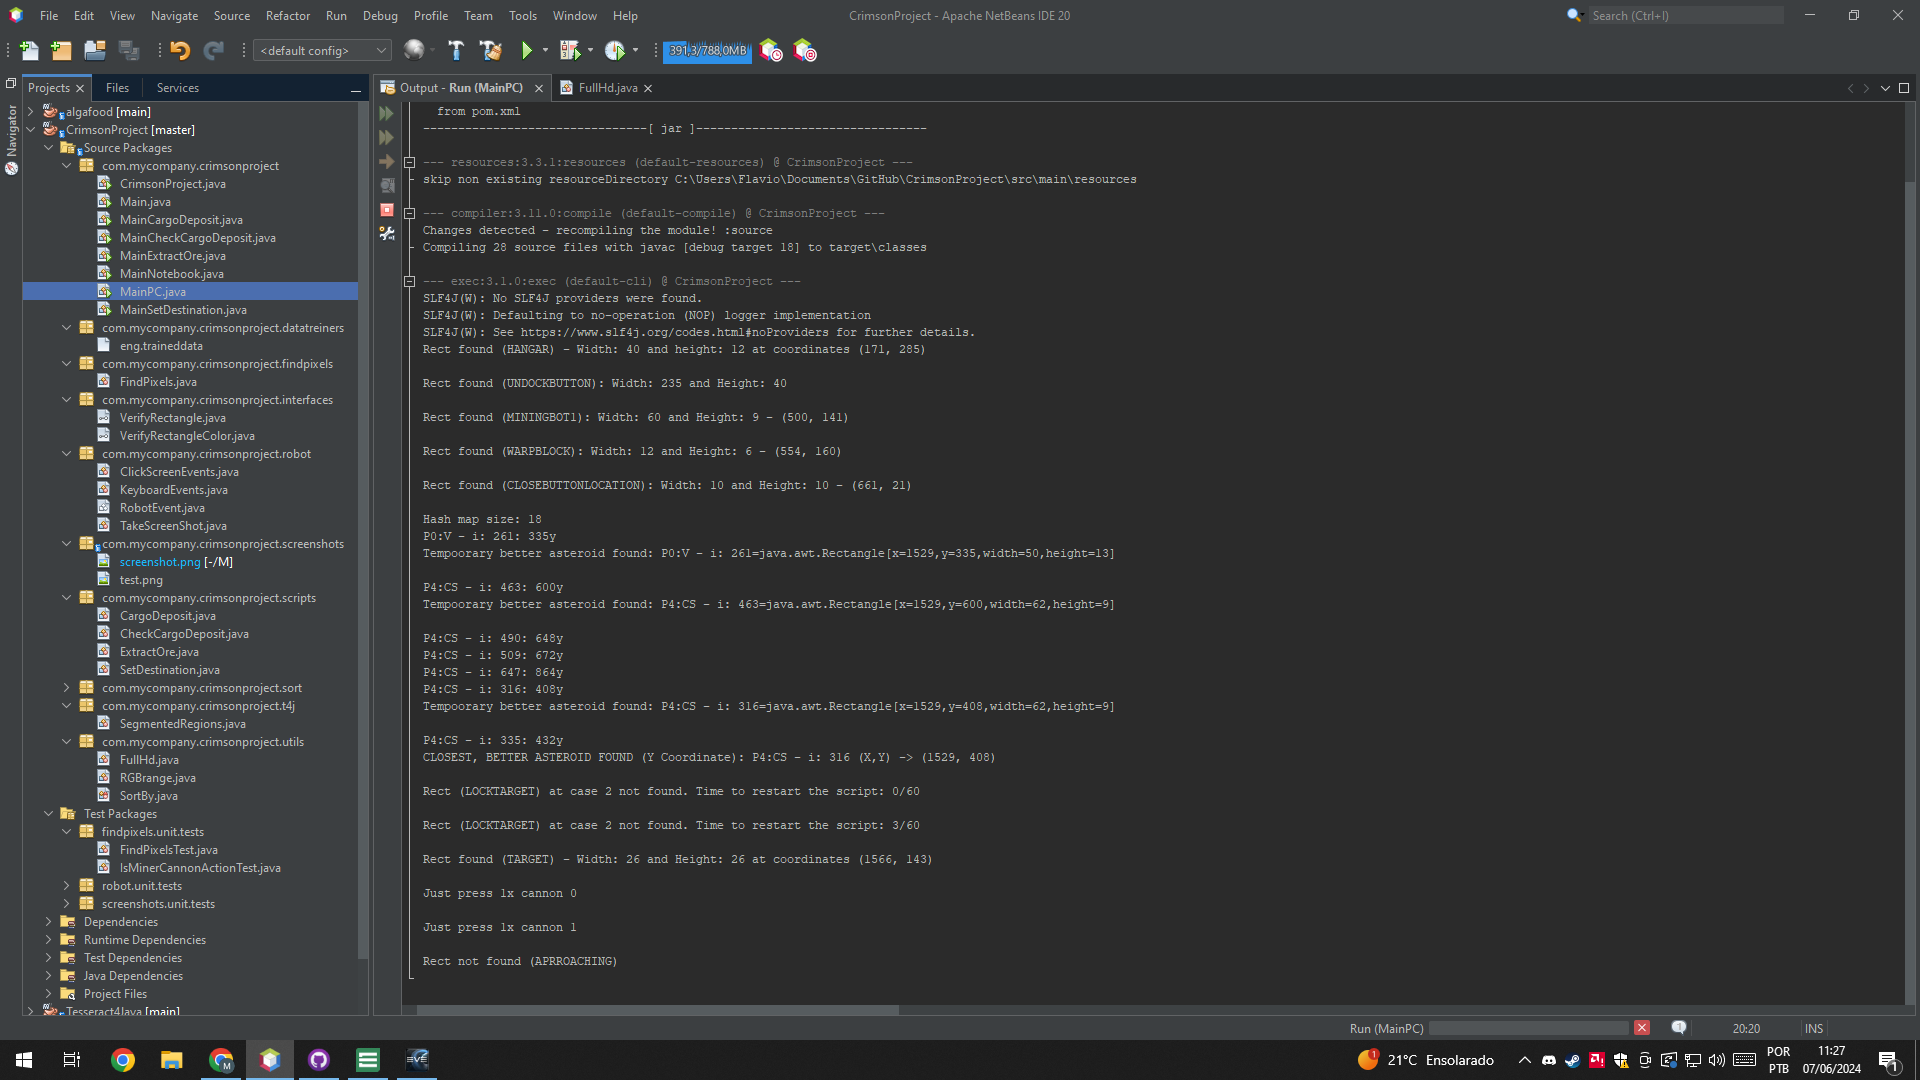
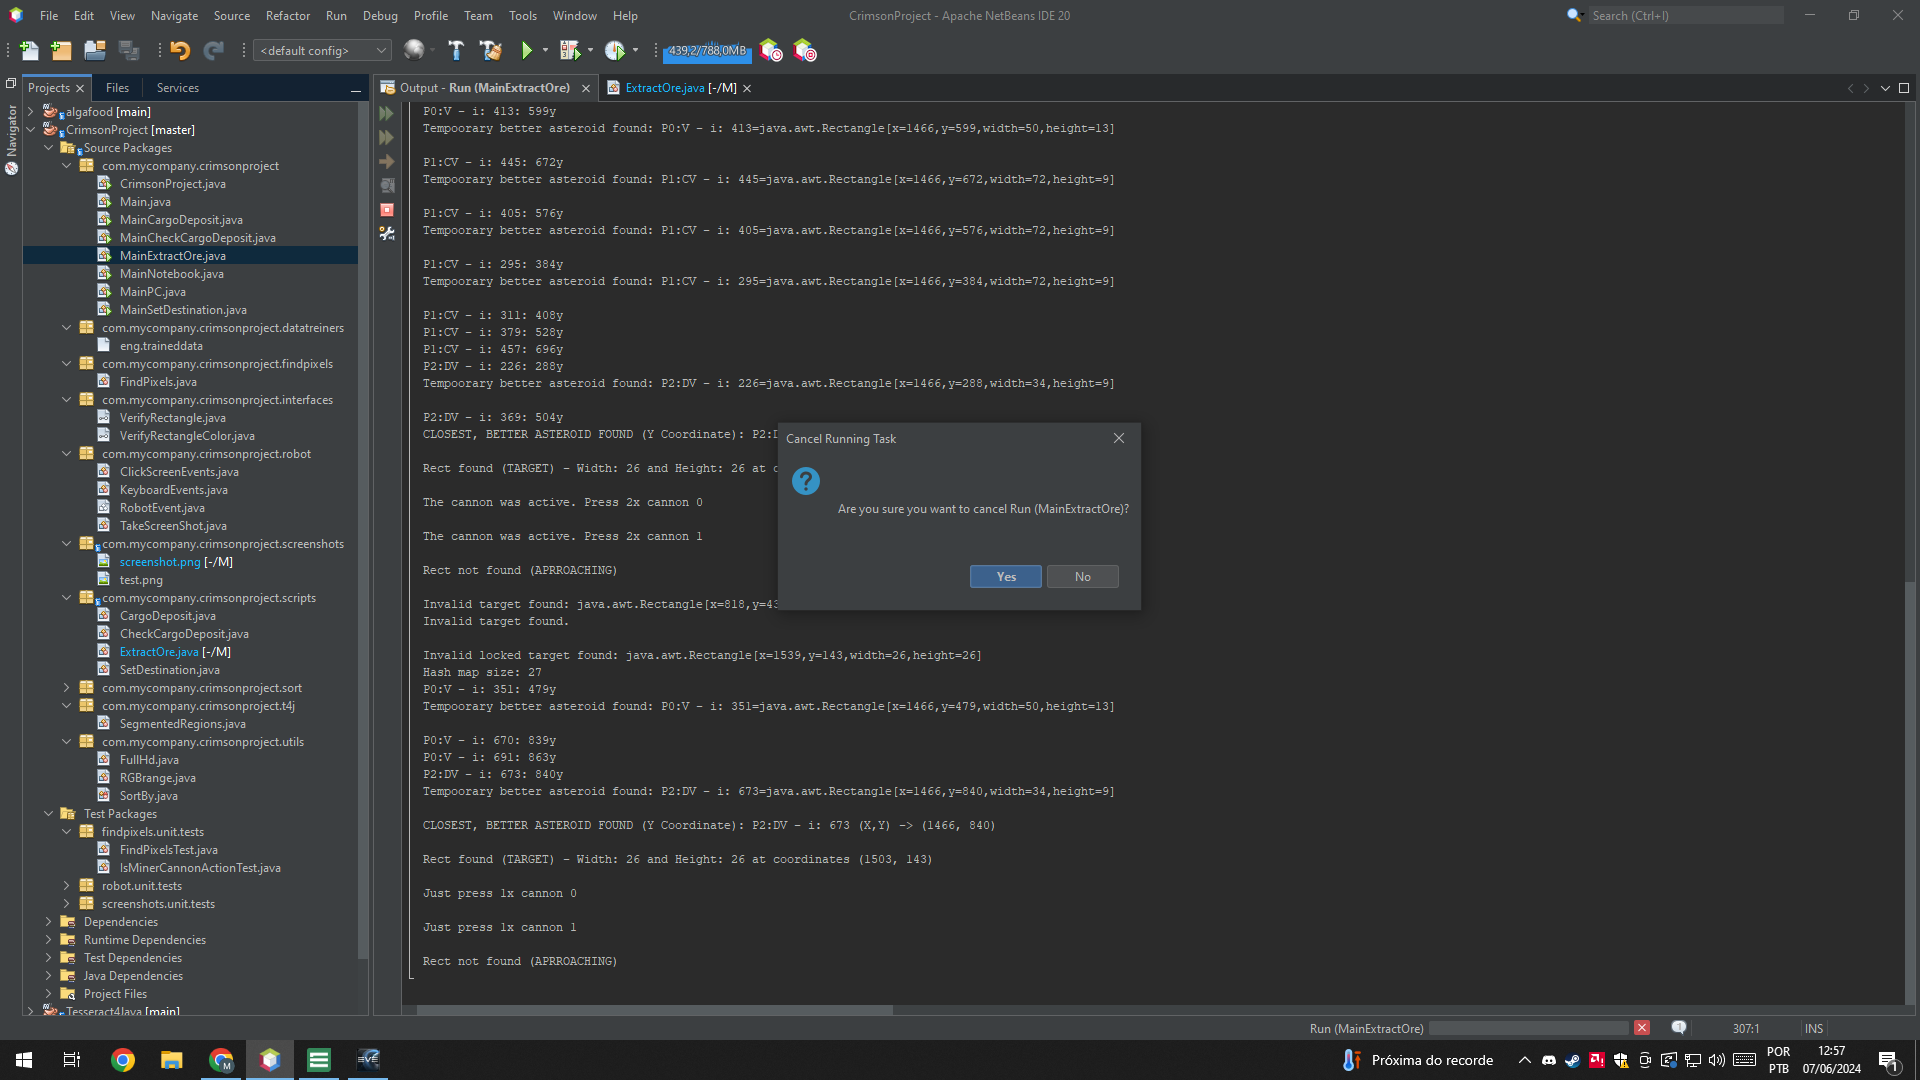
Alteração no método invalidTarget em ExtractOre
target volta a ser uma variável de escopo. Método invalidTarget foi reescrito, agora ele tenta achar apenas 1x o target, caso não ache, ele encerra o script e reinicia.

diff --git a/src/main/java/com/mycompany/crimsonproject/scripts/ExtractOre.java b/src/main/java/com/mycompany/crimsonproject/scripts/ExtractOre.java
@@ -30,8 +30,6 @@ public class ExtractOre implements VerifyRectangle {
     private RGBrange pr = null;
     private FullHd rgbr = null;
 
-    private Rectangle target = null;
-
     private int amountRect = 0;
     private long flagTimeToBeFilled_MS = 0;
     private long flagUntilToBeFilled_MS = 0;
@@ -83,7 +81,7 @@ public class ExtractOre implements VerifyRectangle {
                 } // end case 0
 
                 case 1 -> {
-                    this.target = new SegmentedRegions().getRectangle(this.rgbr.getLockTargetList(), this.rgbr.getTupleLockTargetDeadZone());
+                    Rectangle target = new SegmentedRegions().getRectangle(this.rgbr.getLockTargetList(), this.rgbr.getTupleLockTargetDeadZone());
 
                     // target identified
                     if (this.verifyRectangle(target, "TARGET", 0)) {
@@ -311,13 +309,15 @@ public class ExtractOre implements VerifyRectangle {
             boolean isIdentified = true;
 
             while (isIdentified) {
+                Rectangle target = new SegmentedRegions().getRectangle(this.rgbr.getLockTargetList(), this.rgbr.getTupleLockTargetDeadZone());
 
-                if (this.target != null) {
-                    System.out.println("Invalid locked target found: " + this.target.toString());
-                    new ClickScreenEvents().leftClickCenterButton(this.target);
+                if (target != null) {
+                    System.out.println("Invalid locked target found: " + target.toString());
+                    new ClickScreenEvents().leftClickCenterButton(target);
                     isIdentified = false;
                 } else {
-                    new ClickScreenEvents().dragScreen();
+                    this.amountRect = 6;
+                    System.out.println("Invalid locked target not found, ending script.");
                 }
             }
 
